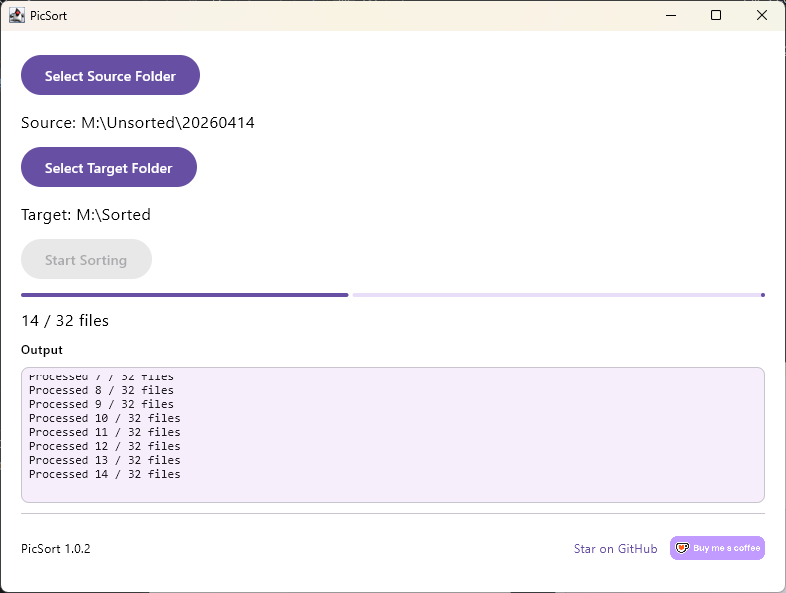
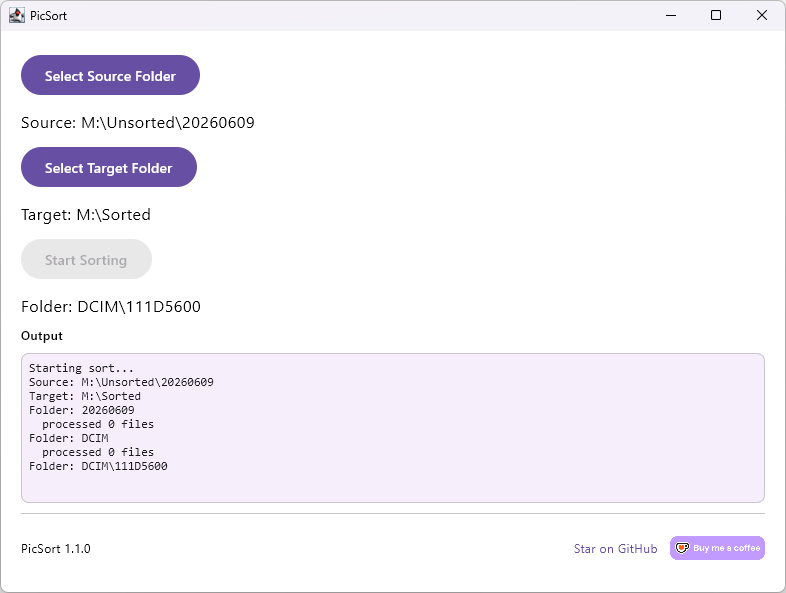
Release 1.1.0
Bump version to 1.1.0 across the build, GUI footer, and README, and
document the streaming folder-by-folder log that replaced the progress
bar.

- Add 1.1.0 changelog entry
- Update GUI screenshot and README wording (progress bar removed)

diff --git a/src/main/kotlin/com/uasoft/picsort/GuiWrapper.kt b/src/main/kotlin/com/uasoft/picsort/GuiWrapper.kt
@@ -135,7 +135,7 @@ fun PicSortApp() {
             horizontalArrangement = Arrangement.SpaceBetween,
             verticalAlignment = Alignment.CenterVertically
         ) {
-            Text("PicSort 1.0.2", style = MaterialTheme.typography.bodySmall)
+            Text("PicSort 1.1.0", style = MaterialTheme.typography.bodySmall)
             Row(
                 horizontalArrangement = Arrangement.spacedBy(4.dp),
                 verticalAlignment = Alignment.CenterVertically

diff --git a/README.md b/README.md
@@ -78,23 +78,23 @@ target/
 ```
 
 Produces two JARs in `build/libs/`:
-- `picsort-cli-1.0.2.jar` — command-line interface
-- `picsort-gui-1.0.2.jar` — desktop GUI
+- `picsort-cli-1.1.0.jar` — command-line interface
+- `picsort-gui-1.1.0.jar` — desktop GUI
 
 ### GUI
 
 ```bash
-java -jar build/libs/picsort-gui-1.0.2.jar
+java -jar build/libs/picsort-gui-1.1.0.jar
 ```
 
-Pick your source and target folders, hit sort, and watch the progress bar and live output log.
+Pick your source and target folders, hit sort, and watch the live output log as each folder is processed.
 
 ![PicSort GUI](docs/screenshot.png)
 
 ### CLI
 
 ```bash
-java -jar build/libs/picsort-cli-1.0.2.jar /path/to/photos /path/to/sorted
+java -jar build/libs/picsort-cli-1.1.0.jar /path/to/photos /path/to/sorted
 ```
 
 ---

diff --git a/CHANGELOG.md b/CHANGELOG.md
@@ -1,5 +1,11 @@
 # Changelog
 
+## [1.1.0] - 2026-06-15
+
+- Replace the progress bar and percentage reporting with a streaming, folder-by-folder log — the GUI and CLI now show the current folder, a running count of files processed, and a final summary
+- Sorting starts immediately: removed the upfront pass that counted every file before any work began
+- GUI: progress bar removed; the output log shows the streamed messages directly
+
 ## [1.0.2] - 2026-04-14
 
 - Fix performance regression in GUI: progress callbacks now dispatch to the main thread via `scope.launch` instead of writing Compose state directly from IO threads
